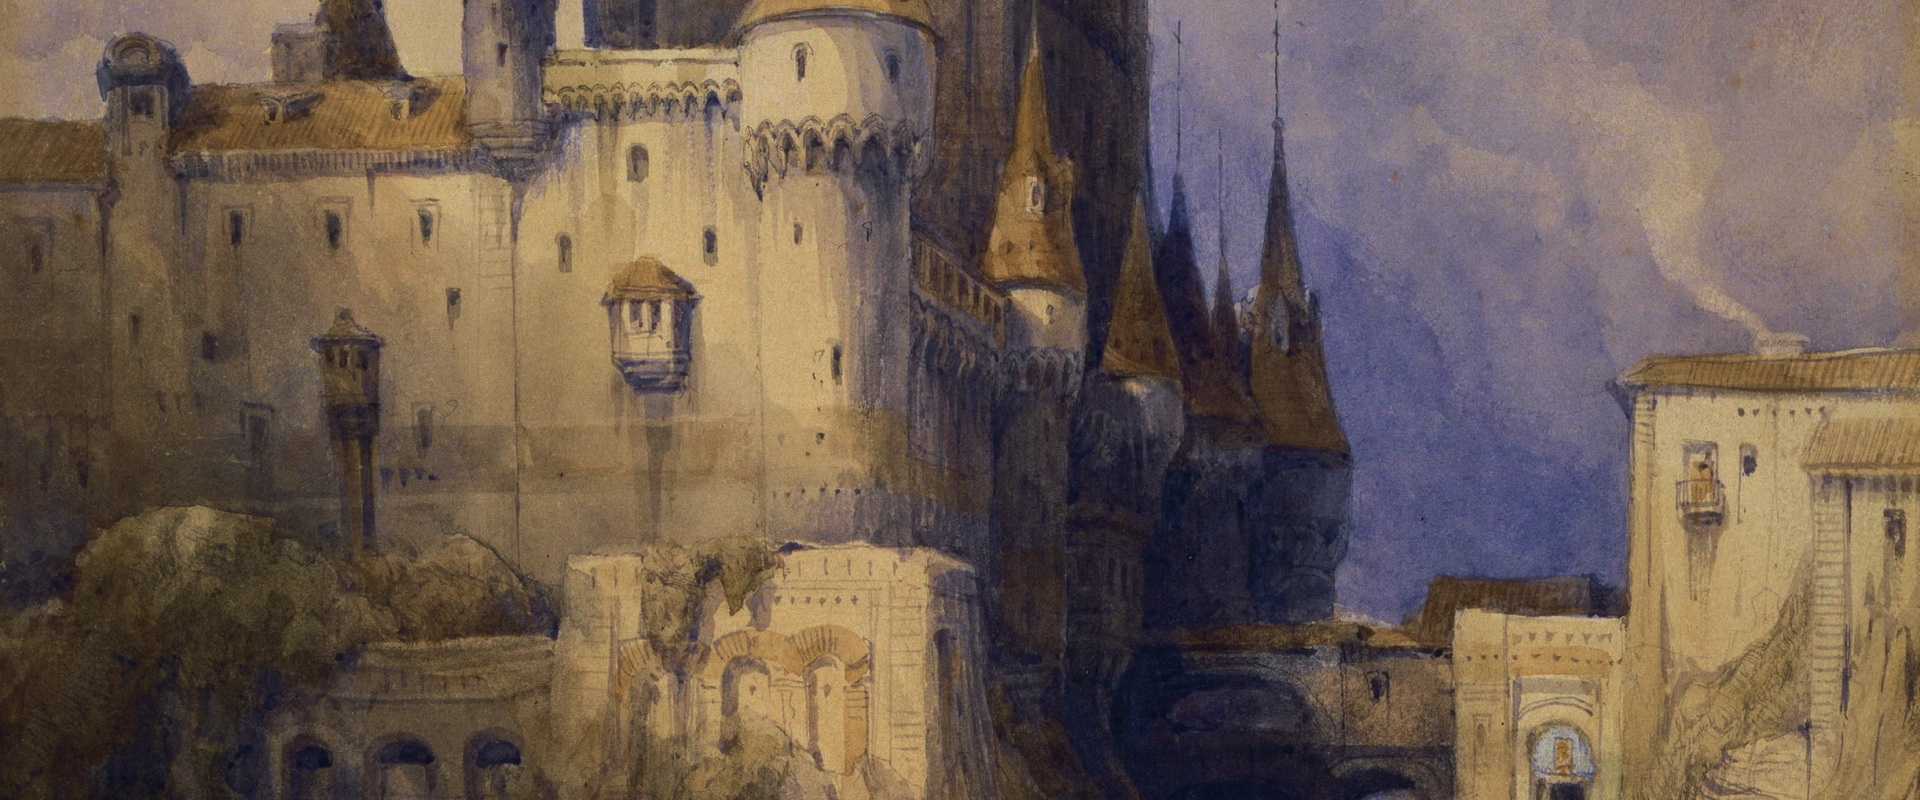
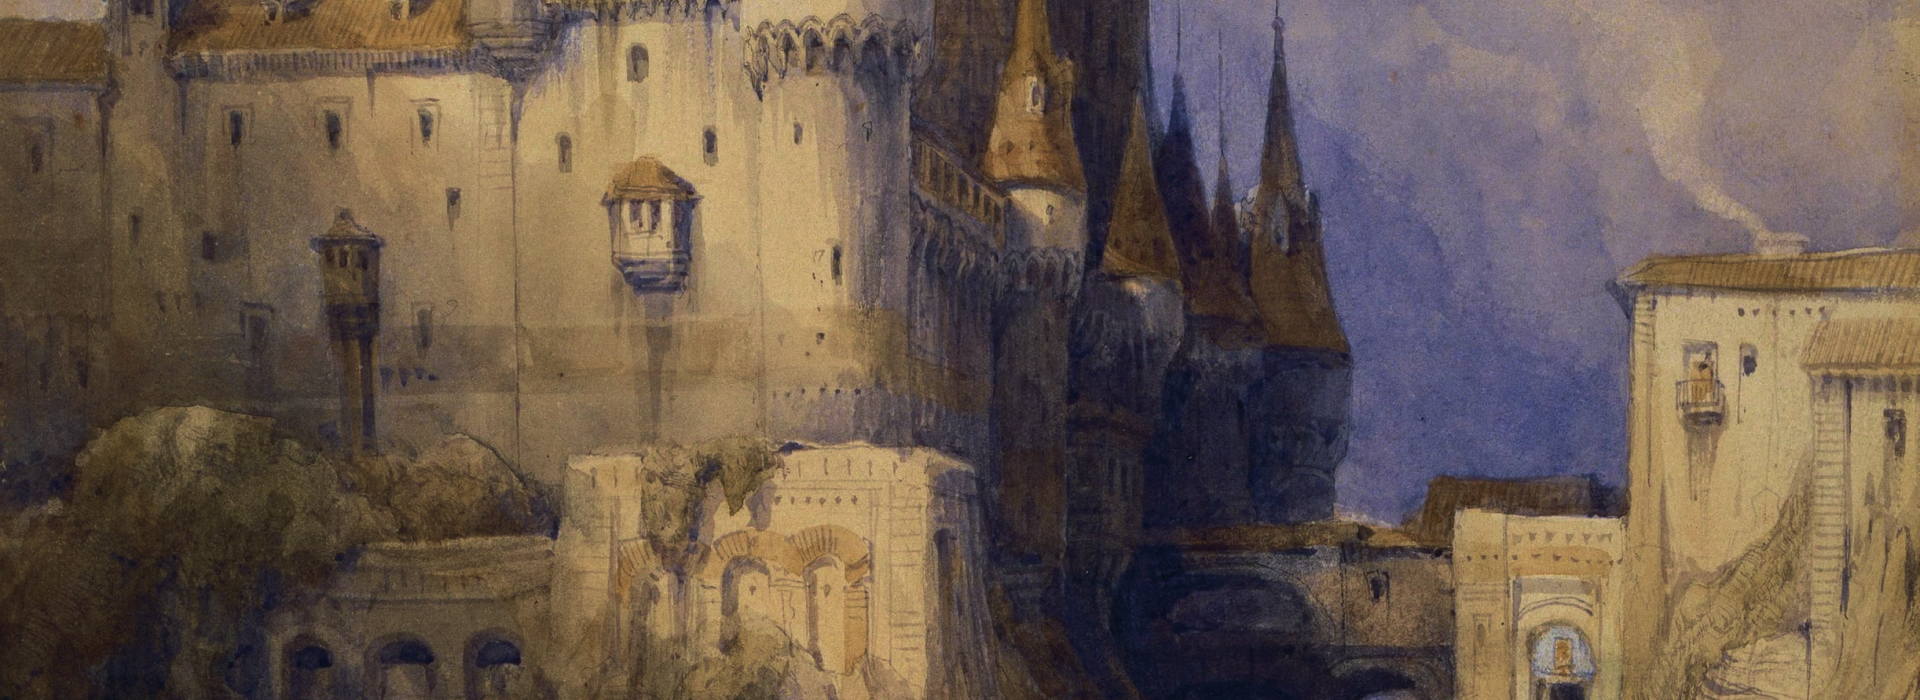
fix style.css

diff --git a/css/style.css b/css/style.css
@@ -54,13 +54,16 @@ h1, h2, h3, p {
 
 body {
   min-width: 320px;
+
   font-family: 'Open Sans', sans-serif;
   font-weight: 400;
   color: var(--black);
 }
 
+
 :root {
   --gap: 50px;
+
   --white: #ffffff;
   --black: #333333;
   --black-total: #000000;
@@ -82,15 +85,16 @@ body {
 .list-reset {
   margin: 0;
   padding: 0;
+
   list-style: none;
 }
 
 .container {
-  max-width: 1650px;
   width: 100%;
+  max-width: 1650px;
   margin: 0 auto;
-  padding-right: 25px;
   padding-left: 25px;
+  padding-right: 25px;
 }
 
 .section-container {
@@ -101,11 +105,13 @@ body {
 .section-title {
   font-weight: 400;
   font-size: 48px;
+
   margin-bottom: 21px;
 }
 
 .section-descr {
   max-width: 1080px;
+
   font-weight: 400;
   font-size: 16px;
   line-height: 200%;
@@ -142,9 +148,9 @@ body {
 }
 
 .header__nav {
-  margin-right: 117px;
-  max-width: 924px;
   width: 100%;
+  max-width: 924px;
+  margin-right: 117px;
 }
 
 .header__menu {
@@ -165,7 +171,7 @@ body {
 /* hero */
 .hero {
   background-color: var(--black);
-  background-image: url('../img/hero.jpg');
+  background-image: url('../img/hero_1920.jpg');
   background-repeat: no-repeat;
   background-position: center;
 }
@@ -176,9 +182,9 @@ body {
 }
 
 .hero__contant {
+  max-width: 580px;
   font-weight: 700;
   color: var(--white);
-  max-width: 580px;
 }
 
 .hero__title {
@@ -205,7 +211,7 @@ body {
 /* gallery */
 .gallery {
   background-color: var(--black);
-  background-image: url('../img/gallery.jpg');
+  background-image: url('../img/gallery_1920.jpg');
   color: var(--white);
 }
 
@@ -232,15 +238,11 @@ body {
 
 .gallery__pictures {
   justify-content: space-between;
-  max-width: 1150px;
   width: 100%;
+  max-width: 1150px;
 }
 
 /* catalog */
-.catalog__container {
-  /* padding-bottom: 40px; */
-}
-
 .catalog__descr {
   margin-bottom: 39px;
 }
@@ -251,7 +253,6 @@ body {
 }
 
 .artist__bio {
-  padding-left: 50px;
   padding: 122px 10px 10px 50px;
 }
 
@@ -264,10 +265,10 @@ body {
 
 .artist__age {
   display: block;
+  margin-bottom: 15px;
   font-weight: 400;
   font-size: 12px;
   color: var(--text-gray);
-  margin-bottom: 15px;
 }
 
 .artist__descr {
@@ -295,9 +296,9 @@ body {
 .event__about {
   position: relative;
   height: 400px;
+  padding: 14px 50px 70px;
   border: 1px solid var(--gray);
   border-top: unset;
-  padding: 14px 50px 70px;
 }
 
 .event__place,
@@ -366,8 +367,8 @@ body {
 }
 
 .partners__item {
-  border: 1px solid var(--gray);
   padding: 26px 26px 23px;
+  border: 1px solid var(--gray);
 }
 
 /* contacts */
@@ -402,10 +403,10 @@ body {
 
 .form {
   height: 100%;
-  max-width: 909px;
   width: 100%;
-  gap: 20px;
+  max-width: 909px;
   padding-top: 5px;
+  gap: 20px;
 }
 
 .form__input {
